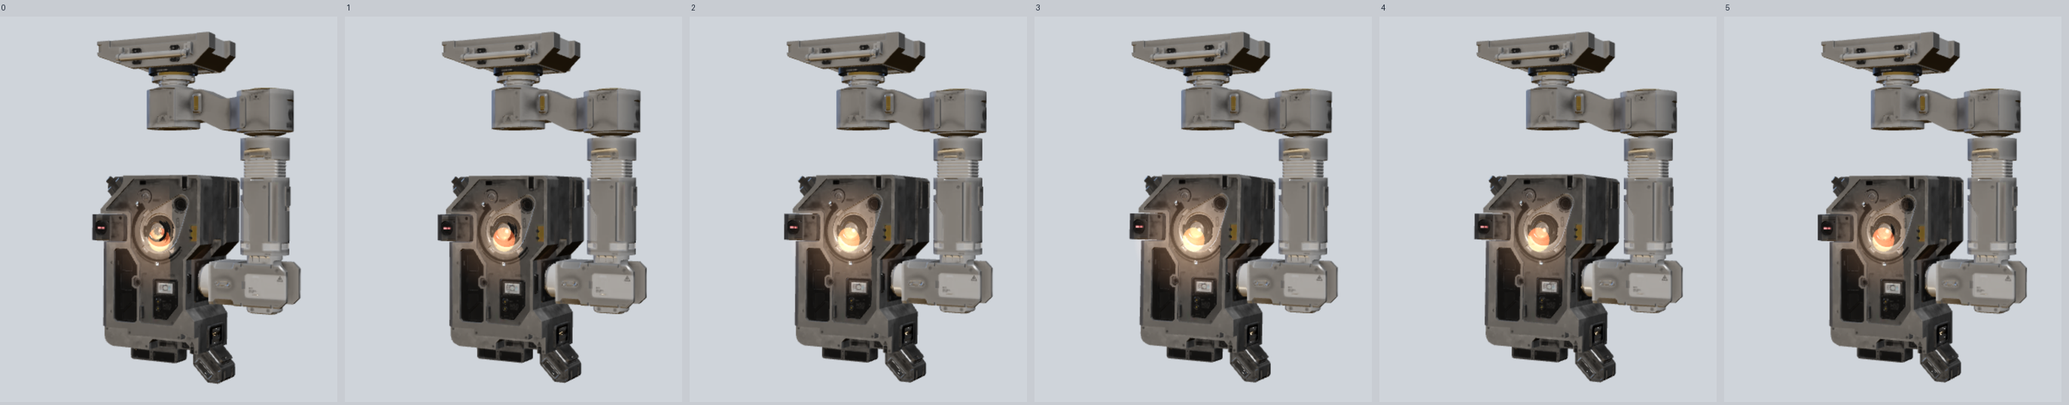
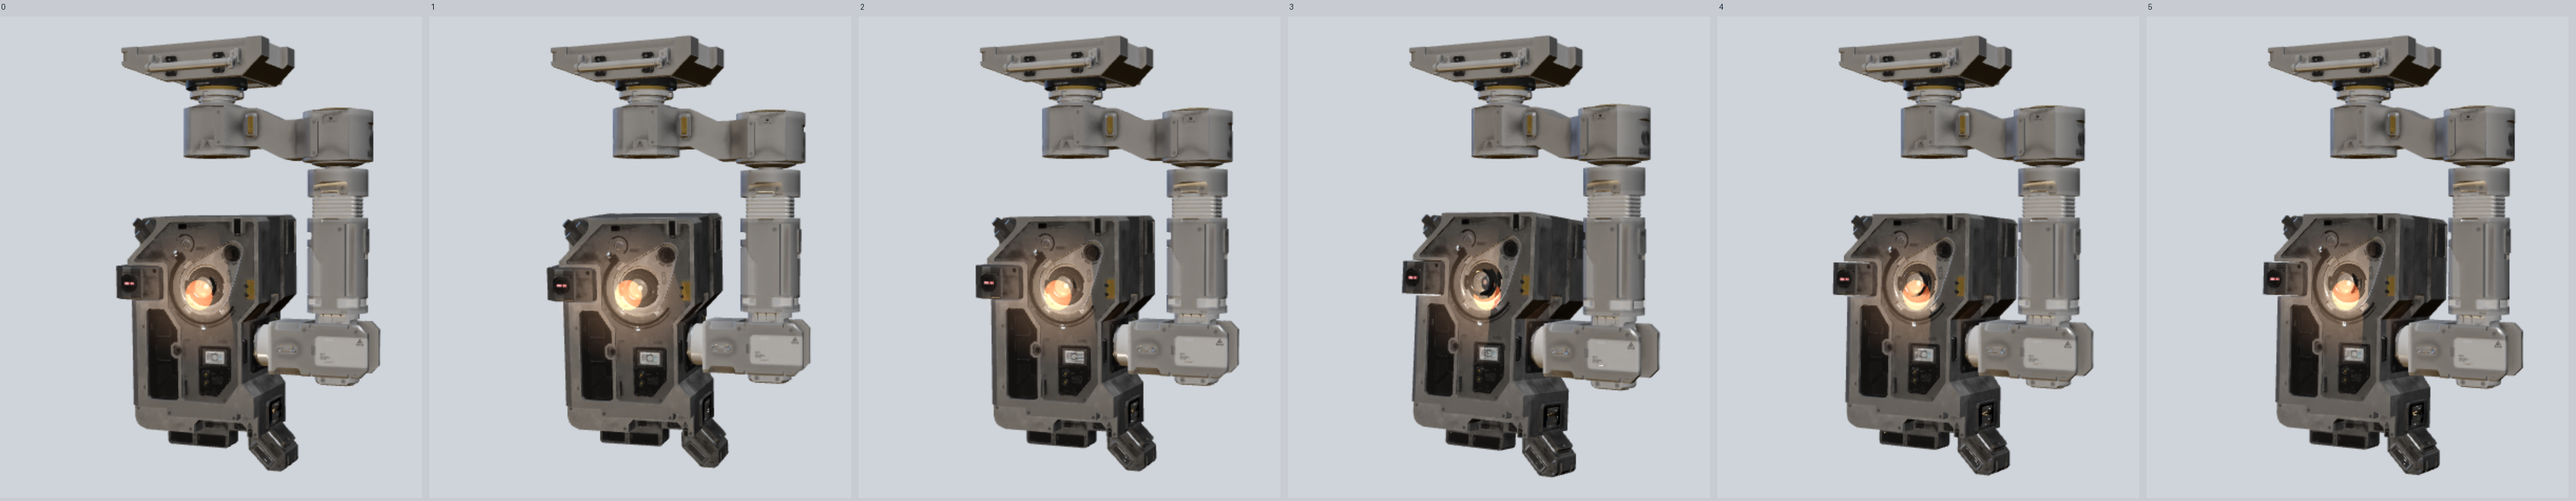
fix(moss): 空闲态动作幅度放大一倍，组合效果可见
非 DeepSeek 模型的空闲态本来就有 5 组组合，但幅度只有 ±1.2~6°，
在真实尺寸下几乎看不出来。现在改为 ±3~12°（仍保持慢节奏）：
- 环视 +12°/−10°，侧望 −9°，沉思低头 −8°，巡视 ±11°，休整 ±3°
- 微动幅度 0.55/0.35/0.45 → 1.0/0.6/0.8
- 素材版本 v79

diff --git a/assets3d/boot.js b/assets3d/boot.js
@@ -303,41 +303,41 @@ export function createMoss3D(canvas, opts) {
       /* 1 缓慢环视：先看右、停一会、再看左、回正 */
       { name: '缓慢环视', dur: 30, keys: [
         { t: 0, a1: 0, a2: 0, a3: 0, eye: 0.40 },
-        { t: 7, a1: 6, a2: -2.5, a3: 1.6, eye: 0.52 },
-        { t: 13, a1: 6, a2: -2.5, a3: 1.6, eye: 0.46 },
-        { t: 19, a1: -5, a2: 2, a3: -1.4, eye: 0.50 },
-        { t: 25, a1: -5, a2: 2, a3: -1.4, eye: 0.44 },
+        { t: 7, a1: 12, a2: -5, a3: 4, eye: 0.52 },
+        { t: 13, a1: 12, a2: -5, a3: 4, eye: 0.46 },
+        { t: 19, a1: -10, a2: 4, a3: -3.5, eye: 0.50 },
+        { t: 25, a1: -10, a2: 4, a3: -3.5, eye: 0.44 },
         { t: 30, a1: 0, a2: 0, a3: 0, eye: 0.40 },
       ] },
       /* 2 轻微侧望：偏向一侧并停留，像在留意什么 */
       { name: '轻微侧望', dur: 30, keys: [
         { t: 0, a1: 0, a2: 0, a3: 0, eye: 0.42 },
-        { t: 9, a1: -4.5, a2: 1.8, a3: -2.2, eye: 0.48 },
-        { t: 21, a1: -4.5, a2: 1.8, a3: -2.4, eye: 0.44 },
+        { t: 9, a1: -9, a2: 3.6, a3: -5, eye: 0.48 },
+        { t: 21, a1: -9, a2: 3.6, a3: -5.2, eye: 0.44 },
         { t: 30, a1: 0, a2: 0, a3: 0, eye: 0.42 },
       ] },
       /* 3 沉思：低头、长停、眼缓慢亮起再落 */
       { name: '沉思', dur: 30, keys: [
         { t: 0, a1: 0, a2: 0, a3: 0, eye: 0.40 },
-        { t: 6, a1: 1.5, a2: -0.8, a3: -3.2, eye: 0.72 },
-        { t: 16, a1: 1.8, a2: -1, a3: -3.0, eye: 0.58 },
-        { t: 23, a1: 1.2, a2: -0.6, a3: -2.4, eye: 0.66 },
+        { t: 6, a1: 3, a2: -1.6, a3: -8, eye: 0.72 },
+        { t: 16, a1: 3.6, a2: -2, a3: -7.5, eye: 0.58 },
+        { t: 23, a1: 2.4, a2: -1.2, a3: -6, eye: 0.66 },
         { t: 30, a1: 0, a2: 0, a3: 0, eye: 0.40 },
       ] },
       /* 4 巡视：左右各看一次，中间各停一段 */
       { name: '巡视', dur: 30, keys: [
         { t: 0, a1: 0, a2: 0, a3: 0, eye: 0.42 },
-        { t: 6, a1: 5.5, a2: -2.2, a3: 1.2, eye: 0.55 },
-        { t: 11, a1: 5.5, a2: -2.2, a3: 1.2, eye: 0.45 },
-        { t: 17, a1: -5.5, a2: 2.2, a3: -1.2, eye: 0.55 },
-        { t: 22, a1: -5.5, a2: 2.2, a3: -1.2, eye: 0.45 },
+        { t: 6, a1: 11, a2: -4.4, a3: 3, eye: 0.55 },
+        { t: 11, a1: 11, a2: -4.4, a3: 3, eye: 0.45 },
+        { t: 17, a1: -11, a2: 4.4, a3: -3, eye: 0.55 },
+        { t: 22, a1: -11, a2: 4.4, a3: -3, eye: 0.45 },
         { t: 30, a1: 0, a2: 0, a3: 0, eye: 0.42 },
       ] },
       /* 5 静止休整：几乎不动，只有极小的姿态漂移 */
       { name: '静止休整', dur: 30, keys: [
         { t: 0, a1: 0, a2: 0, a3: 0, eye: 0.38 },
-        { t: 10, a1: 1.2, a2: -0.5, a3: 0.8, eye: 0.44 },
-        { t: 20, a1: 0.6, a2: -0.2, a3: -0.6, eye: 0.40 },
+        { t: 10, a1: 3, a2: -1.2, a3: 2.5, eye: 0.44 },
+        { t: 20, a1: 1.5, a2: -0.6, a3: -2, eye: 0.40 },
         { t: 30, a1: 0, a2: 0, a3: 0, eye: 0.38 },
       ] },
     ]
@@ -519,9 +519,9 @@ export function createMoss3D(canvas, opts) {
     const frozen = (typeof window !== 'undefined' && window.__freeze__) || jointsDisabled
     /* 空闲态叠加极缓慢的微动（周期 60~110s），避免长时间保持一个姿态像卡住 */
     const micro = working ? 0 : 1
-    const m1 = Math.sin((animTime / 87) * Math.PI * 2) * 0.55 * micro
-    const m2 = Math.sin((animTime / 103) * Math.PI * 2 + 1.1) * 0.35 * micro
-    const m3 = Math.sin((animTime / 71) * Math.PI * 2 + 2.3) * 0.45 * micro
+    const m1 = Math.sin((animTime / 87) * Math.PI * 2) * 1.0 * micro
+    const m2 = Math.sin((animTime / 103) * Math.PI * 2 + 1.1) * 0.6 * micro
+    const m3 = Math.sin((animTime / 71) * Math.PI * 2 + 2.3) * 0.8 * micro
     let deg1 = mix('a1') + m1
     let deg2 = mix('a2') + m2
     let deg3 = mix('a3') + m3

diff --git a/client/client.js b/client/client.js
@@ -37,7 +37,7 @@ window.__ModuleLoader__.load({
     var ROOT_ID = 'dsh-pet-liang-root'
     var POS_KEY = 'dsh-pet-liang:pos'
     /* 素材改了名字没变，加一个版本号强制浏览器重新取（宿主给的是 immutable 缓存） */
-    var ASSET_V = '78'
+    var ASSET_V = '79'
     var STYLE_ID = 'dsh-pet-liang-style'
 
     /** 四档推理等级对应的称呼与氛围色。 */

diff --git a/README.md b/README.md
@@ -122,11 +122,11 @@ MOSS 形象不再用预渲染 PNG，而是**在插件里实时渲染你提供的
 
   | # | 动作组 | 内容 | 红眼 |
   | --- | --- | --- | --- |
-  | 1 | 缓慢环视 | 7s 漂到右侧 +6°，停 6s，再 6s 漂到左侧 −5°，回正 | 0.40~0.52 |
-  | 2 | 轻微侧望 | 9s 偏到 −4.5° 并停留 12s，再回正 | 0.42~0.48 |
-  | 3 | 沉思 | 低头 −3.2°，长停，眼缓慢升到 0.72 再落 | 0.40~0.72 |
-  | 4 | 巡视 | 左右各看一次，中间各停 5s | 0.42~0.55 |
-  | 5 | 静止休整 | 仅 ±1.2° 的极缓慢漂移 | 0.38~0.44 |
+  | 1 | 缓慢环视 | 7s 漂到右侧 +12°，停 6s，再 6s 漂到左侧 −10°，回正 | 0.40~0.52 |
+  | 2 | 轻微侧望 | 9s 偏到 −9° 并停留 12s，再回正 | 0.42~0.48 |
+  | 3 | 沉思 | 低头 −8°，长停，眼缓慢升到 0.72 再落 | 0.40~0.72 |
+  | 4 | 巡视 | 左右各看 +11°/−11°，中间各停 5s | 0.42~0.55 |
+  | 5 | 静止休整 | 仅 ±3° 的极缓慢漂移 | 0.38~0.44 |
 
   | 动作段 | 时长 | 内容 |
   | --- | --- | --- |
